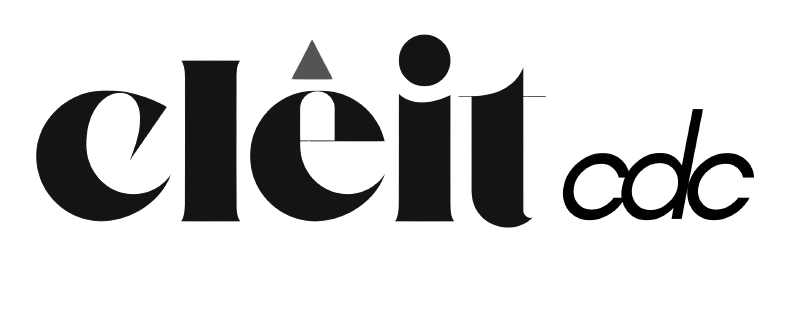
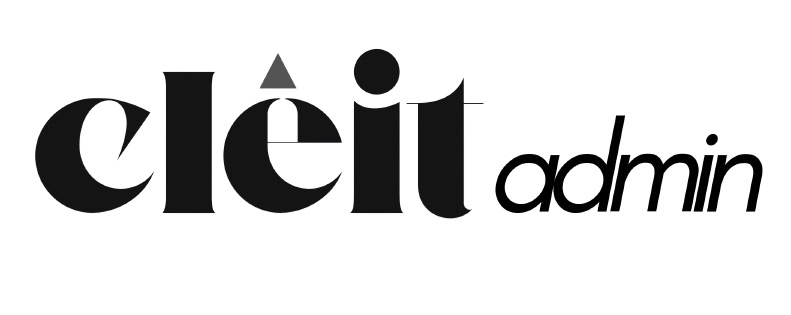
feat: add total number of students

Changed region(s): [[0.0608, 0.0857, 0.9722, 0.7429]]

diff --git a/src/app/searchStudent/page.tsx b/src/app/searchStudent/page.tsx
@@ -165,15 +165,15 @@ export default function AdminUserSearch() {
           Search User
         </h2>
 
-        <div className="flex justify-center gap-3 mb-6">
+        <div className="flex justify-center gap-2 mb-6">
           <input
             type="text"
             placeholder="Search Student"
             value={searchValue}
             onChange={(e) => setSearchValue(e.target.value)}
-            className="md:text-lg w-96 border border-gray-300 px-3 py-2 rounded-md focus:outline-none focus:ring focus:ring-indigo-200"
+            className="md:text-lg w-56 md:w-96 border border-gray-300 px-3 py-2 rounded-md focus:outline-none focus:ring focus:ring-indigo-200"
           />
-          {searchValue && (
+          {
             <button
               onClick={() => setSearchValue("")}
               className="cursor-pointer md:text-lg px-4 py-2 border border-gray-300 hover:bg-gray-100 rounded-md"
@@ -181,7 +181,7 @@ export default function AdminUserSearch() {
             >
               Clear
             </button>
-          )}
+          }
         </div>
 
         {loading && (
@@ -307,7 +307,11 @@ export default function AdminUserSearch() {
 
         {displayYears.map((year) => {
           const depts = groupedStudents[year];
+          const yearCount = depts
+            ? Object.values(depts).reduce((sum, arr) => sum + arr.length, 0)
+            : 0;
           const showYearContent = expandAllMatches || expandedYear === year;
+
           return (
             <div
               key={year}
@@ -317,13 +321,16 @@ export default function AdminUserSearch() {
                 onClick={() => {
                   if (!expandAllMatches) toggleYear(year);
                 }}
-                className="w-full text-left font-bold text-xl text-gray-800 hover:cursor-pointer"
+                className="w-full flex justify-between items-center text-left text-xl text-gray-800 hover:cursor-pointer"
               >
-                {year}
+                <span className="font-semibold text-base md:text-lg">
+                  {year}
+                </span>
+                <span className="text-gray-600 text-sm">{yearCount}</span>
               </button>
 
               {showYearContent && (
-                <div className="pl-4 mt-2">
+                <div className="mt-2">
                   {depts ? (
                     Object.entries(depts).map(([dept, students]) => {
                       const key = `${year}::${dept}`;
@@ -335,13 +342,16 @@ export default function AdminUserSearch() {
                             onClick={() => {
                               if (!expandAllMatches) toggleDept(year, dept);
                             }}
-                            className="text-lg text-gray-800 hover:cursor-pointer"
+                            className="flex justify-between items-center w-full md:text-lg text-gray-800 hover:cursor-pointer"
                           >
-                            {dept}
+                            <span>{dept}</span>
+                            <span className="text-gray-600 text-sm">
+                              {students.length}
+                            </span>
                           </button>
 
                           {showDeptContent && (
-                            <ul className="pl-4 mt-2 space-y-3">
+                            <ul className="md:pl-4 mt-2 space-y-3">
                               {students
                                 .slice()
                                 .sort(

diff --git a/src/app/layout.tsx b/src/app/layout.tsx
@@ -2,7 +2,7 @@ import type { Metadata } from "next";
 import "./globals.css";
 
 export const metadata: Metadata = {
-  title: "Cleit CDC Admin",
+  title: "Cleit Admin - Career Development Centre",
   description: "",
 };
 
